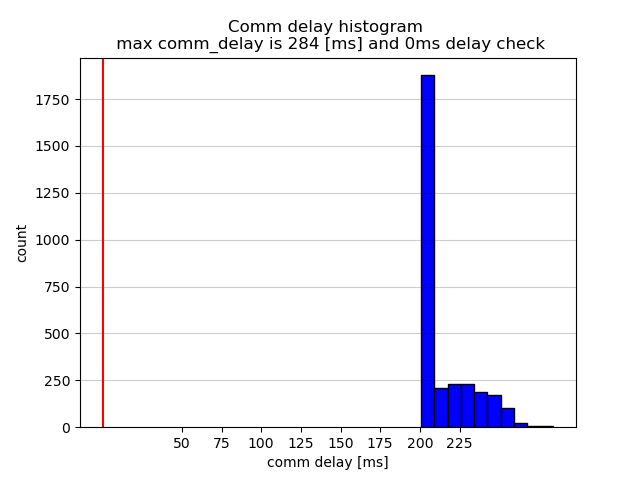
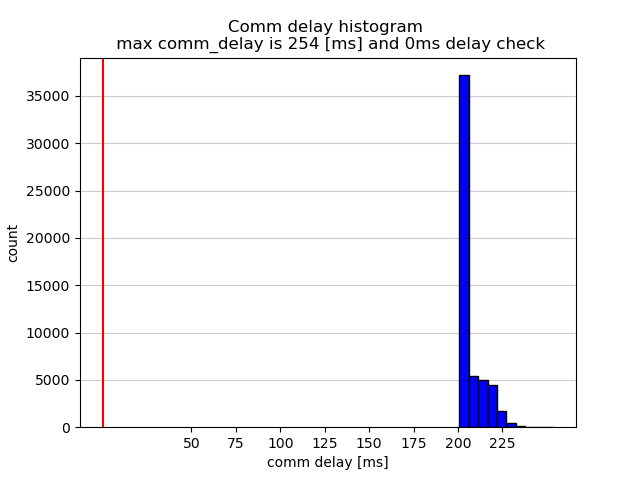
minor

diff --git a/mader/other/sim/collision_check.py b/mader/other/sim/collision_check.py
@@ -79,17 +79,19 @@ if __name__ == '__main__':
 
             for i in range(len(rosbag)):
 
-                b = bagreader(rosbag[i], verbose=False)
-                sim_id = rosbag[i][source_len+5:source_len+7]
-                
-                log_data = b.message_by_topic("/is_collided")
-                if (log_data == None):
-                    print("sim " + sim_id + ": no collision" )
-                    os.system('echo "simulation '+sim_id+': no collision" >> '+source_dir+'/collision_status.txt')
-                else:
-                    collision_cnt = collision_cnt + 1
-                    print("sim " + sim_id + ": ******collision******" )
-                    os.system('echo "simulation '+sim_id+': ***collision***" >> '+source_dir+'/collision_status.txt')
+                try:
+                    b = bagreader(rosbag[i], verbose=False)
+                    sim_id = rosbag[i][source_len+5:source_len+7]
+                    log_data = b.message_by_topic("/is_collided")
+                    if (log_data == None):
+                        print("sim " + sim_id + ": no collision" )
+                        os.system('echo "simulation '+sim_id+': no collision" >> '+source_dir+'/collision_status.txt')
+                    else:
+                        collision_cnt = collision_cnt + 1
+                        print("sim " + sim_id + ": ******collision******" )
+                        os.system('echo "simulation '+sim_id+': ***collision***" >> '+source_dir+'/collision_status.txt')
+                except:
+                    pass
 
             collision_per = collision_cnt / len(rosbag) * 100
             os.system('paste '+source_dir+'/collision_status.txt '+source_dir+'/status.txt >> '+source_dir+'/complete_status.txt')

diff --git a/mader/other/sim/missed_msgs_count.py b/mader/other/sim/missed_msgs_count.py
@@ -119,8 +119,9 @@ if __name__ == '__main__':
             ave_missed_per_dc = sum(missed_msgs_list)/len(missed_msgs_list)
             ave_per_dc = sum(msgs_list)/len(msgs_list)
             # print(ave_per_dc)
-            os.system('echo "'+source_dir+': msgs_cnt '+str(ave_per_dc)+'" >> /home/kota/data/missed_msgs_cnt.txt')
-            os.system('echo "'+source_dir+': missed_msgs_cnt '+str(ave_missed_per_dc)+'" >> /home/kota/data/missed_msgs_cnt.txt')
-            os.system('echo "'+source_dir+': missed/total '+str(ave_missed_per_dc/ave_per_dc)+'" >> /home/kota/data/missed_msgs_cnt.txt')
+            os.system('echo "'+source_dir+': msgs_cnt '+str(round(ave_per_dc,2))+'" >> /home/kota/data/missed_msgs_cnt.txt')
+            os.system('echo "'+source_dir+': missed_msgs_cnt '+str(round(ave_missed_per_dc,2))+'" >> /home/kota/data/missed_msgs_cnt.txt')
+            os.system('echo "'+source_dir+': missed/total '+str(round(ave_missed_per_dc/ave_per_dc,2))+'" >> /home/kota/data/missed_msgs_cnt.txt')
+            os.system('echo "" >> /home/kota/data/missed_msgs_cnt.txt')
             
             is_oldmader = False

diff --git a/mader/scripts/run_many_sims_multi_agent.py b/mader/scripts/run_many_sims_multi_agent.py
@@ -39,7 +39,7 @@ if __name__ == '__main__':
 
     # parameters
     is_oldmader=True
-    num_of_sims=110
+    num_of_sims=60
     num_of_agents=10
     how_long_to_wait = 30 #[s]
     if is_oldmader:
@@ -213,7 +213,7 @@ if __name__ == '__main__':
     session_name="data"
     os.system("tmux kill-session -t" + session_name)
     os.system("tmux new-session -d -s "+str(session_name)+" -x 300 -y 300")
-    
+
     commands = []
     commands.append("sleep 3.0 && roscd mader && cd other/sim && python collision_check.py")
     commands.append("sleep 3.0 && roscd mader && cd other/sim && python completion_time.py")
@@ -231,5 +231,4 @@ if __name__ == '__main__':
     for i in range(len(commands)):
         os.system('tmux send-keys -t '+str(session_name)+':'+str(i) +'.0 "'+ commands[i]+'" '+' C-m')
 
-    os.system("tmux attach")
     print("Commands sent")

diff --git a/mader/other/sim/comm_delay_histogram_percentile.py b/mader/other/sim/comm_delay_histogram_percentile.py
@@ -28,7 +28,7 @@ import numpy
 if __name__ == '__main__':
 
     # you wanna get histogram or know the value at q-th percentile
-    is_histogram = False
+    is_histogram = True
     # q-th percentile
     q = 75
 
